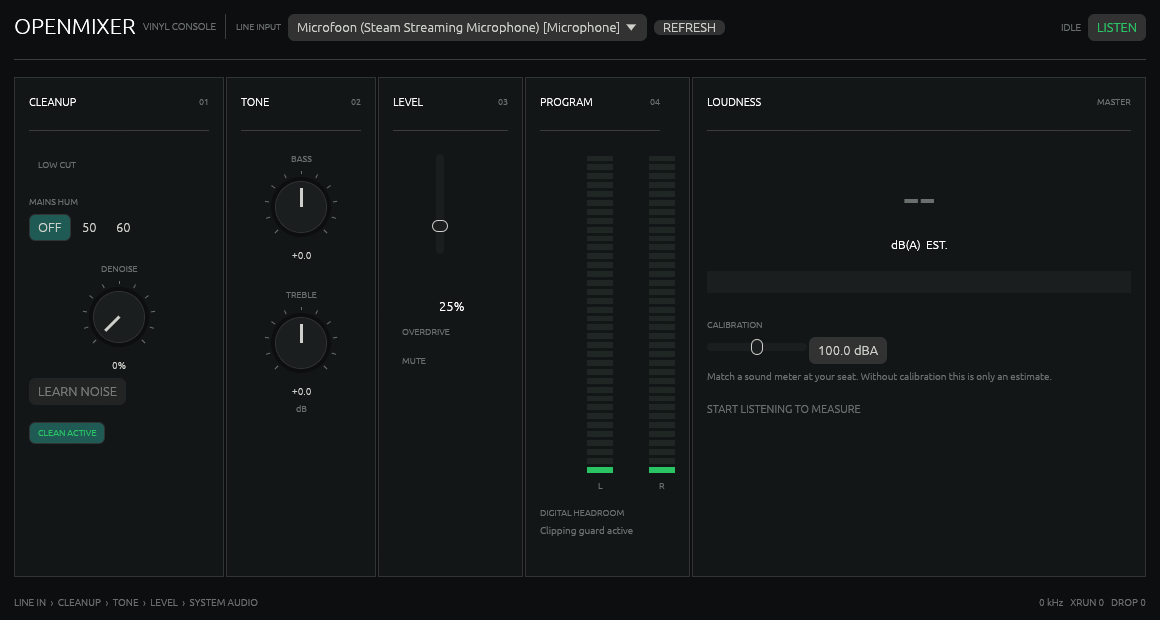
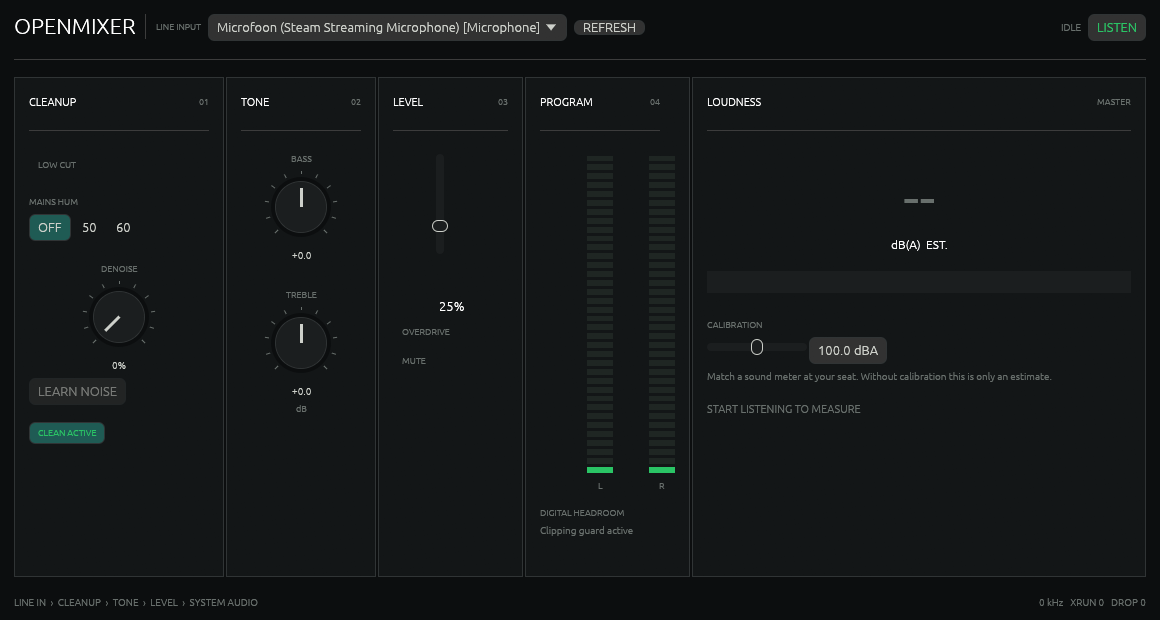
feat: remember selected line input

Changed region(s): [[0.1241, 0.0, 0.6207, 0.0919]]

diff --git a/src/main.rs b/src/main.rs
@@ -1,3 +1,5 @@
+#![cfg_attr(target_os = "windows", windows_subsystem = "windows")]
+
 use eframe::egui::{self, Align, Color32, FontId, Layout, RichText, Sense, Stroke, Vec2};
 use openmixer::{
     audio::{AudioEngine, AudioStatus, DeviceList, TelemetrySnapshot},
@@ -55,16 +57,19 @@ struct OpenMixerApp {
     state: MixerState,
     sample_rate: Option<u32>,
     notice: Option<String>,
+    saved_input: Option<String>,
 }
 
 impl OpenMixerApp {
     fn new(context: &eframe::CreationContext<'_>) -> Self {
         configure_style(&context.egui_ctx);
+        let saved_input = settings_path().as_deref().and_then(load_input);
         let mut app = Self {
             audio: AudioEngine::new(),
             state: MixerState::default(),
             sample_rate: None,
             notice: None,
+            saved_input,
         };
         app.refresh_devices();
         app
@@ -74,10 +79,8 @@ impl OpenMixerApp {
         match AudioEngine::devices() {
             Ok(devices) => {
                 self.state.devices = devices;
-                self.state.input_index = self
-                    .state
-                    .input_index
-                    .min(self.state.devices.inputs.len().saturating_sub(1));
+                self.state.input_index =
+                    preferred_input_index(&self.state.devices.inputs, self.saved_input.as_deref());
                 self.notice = None;
             }
             Err(error) => self.notice = Some(error),
@@ -91,9 +94,9 @@ impl OpenMixerApp {
                     .font(FontId::proportional(22.0))
                     .strong(),
             );
-            ui.label(RichText::new("VINYL CONSOLE").size(10.0).color(MUTED));
             ui.separator();
             small_label(ui, "LINE INPUT");
+            let previous_input = self.state.input_index;
             egui::ComboBox::from_id_salt("input-device")
                 .width(300.0)
                 .selected_text(selected(
@@ -106,6 +109,21 @@ impl OpenMixerApp {
                         ui.selectable_value(&mut self.state.input_index, index, name);
                     }
                 });
+            if self.state.input_index != previous_input
+                && let Some(name) = self
+                    .state
+                    .devices
+                    .inputs
+                    .get(self.state.input_index)
+                    .cloned()
+            {
+                self.saved_input = Some(name.clone());
+                if let Some(path) = settings_path()
+                    && let Err(error) = save_input(&path, &name)
+                {
+                    self.notice = Some(format!("Could not remember input: {error}"));
+                }
+            }
             if ui.small_button("REFRESH").clicked() {
                 self.refresh_devices();
             }
@@ -495,6 +513,32 @@ fn selected<'a>(items: &'a [String], index: usize, empty: &'static str) -> &'a s
     items.get(index).map(String::as_str).unwrap_or(empty)
 }
 
+fn preferred_input_index(inputs: &[String], saved: Option<&str>) -> usize {
+    saved
+        .and_then(|name| inputs.iter().position(|input| input == name))
+        .unwrap_or(0)
+}
+
+fn settings_path() -> Option<std::path::PathBuf> {
+    std::env::var_os("USERPROFILE")
+        .or_else(|| std::env::var_os("HOME"))
+        .map(std::path::PathBuf::from)
+        .map(|home| home.join(".openmixer").join("input"))
+}
+
+fn load_input(path: &std::path::Path) -> Option<String> {
+    std::fs::read_to_string(path)
+        .ok()
+        .filter(|name| !name.is_empty())
+}
+
+fn save_input(path: &std::path::Path, name: &str) -> std::io::Result<()> {
+    if let Some(directory) = path.parent() {
+        std::fs::create_dir_all(directory)?;
+    }
+    std::fs::write(path, name)
+}
+
 fn configure_style(context: &egui::Context) {
     let mut style = (*context.global_style()).clone();
     style.spacing.item_spacing = Vec2::new(7.0, 7.0);
@@ -566,5 +610,22 @@ mod tests {
             displayed_dba(AudioStatus::Running, -20.0, 100.0),
             Some(80.0)
         );
+    }
+
+    #[test]
+    fn saved_input_is_restored_by_device_name() {
+        let inputs = vec!["Microphone".into(), "Line In".into()];
+        assert_eq!(preferred_input_index(&inputs, Some("Line In")), 1);
+        assert_eq!(preferred_input_index(&inputs, Some("Missing")), 0);
+    }
+
+    #[test]
+    fn selected_input_round_trips_through_settings_file() {
+        let directory =
+            std::env::temp_dir().join(format!("openmixer-settings-test-{}", std::process::id()));
+        let path = directory.join("input");
+        save_input(&path, "Line In (USB Audio)").unwrap();
+        assert_eq!(load_input(&path).as_deref(), Some("Line In (USB Audio)"));
+        std::fs::remove_dir_all(directory).unwrap();
     }
 }

diff --git a/README.md b/README.md
@@ -1,12 +1,13 @@
 # OpenMixer
 
-A small native desktop mixer for listening to a line input without replacing or rerouting the rest of your system audio. OpenMixer was built for an Audio-Technica AT-LP60XBT connected to a PC: select one capture device, clean up steady electrical noise, shape the tone, and listen through the operating system's normal output.
+A small native desktop mixer for monitoring any line input without replacing or rerouting the rest of your system audio. Select a capture device, reduce steady electrical noise, shape the tone, and listen through the operating system's normal output. Typical sources include turntables with a built-in preamp, audio interfaces, cassette decks, instruments, and other line-level equipment.
 
 ![OpenMixer mixer interface](docs/openmixer.png)
 
 ## What it does
 
 - Monitors only the input you select and follows the operating system's default playback device. It never changes that default.
+- Remembers the selected input in `.openmixer/input` inside your user profile.
 - Removes 50 Hz or 60 Hz mains hum and its first harmonics.
 - Starts with cleanup off for a transparent signal. Optional two-second noise learning enables stereo-linked spectral reduction.
 - Adds a 28 Hz rumble filter and ±12 dB bass/treble controls.
@@ -16,18 +17,18 @@ A small native desktop mixer for listening to a line input without replacing or 
 
 The large readout is an **estimated dB(A)** value. A-weighting is applied in the audio engine, but a line input cannot know the gain of your amplifier, speaker sensitivity, listening distance, or the system volume after OpenMixer. Calibrate the readout against a real sound meter at your listening position before treating it as meaningful. Green is below 85 dB(A), orange is 85–89 dB(A), and red is 90 dB(A) or higher. [NIOSH uses 85 dB(A) averaged over eight hours](https://www.cdc.gov/niosh/noise/about/noise.html) as its recommended exposure limit; loudness and exposure time both matter.
 
-## Use it with the AT-LP60XBT
+## Connect a line-level source
 
-1. Put the turntable's rear pre-amplifier switch in **LINE** when connecting it to a PC line input. `PHONO` requires a separate phono preamp.
-2. Connect the turntable to a real stereo line input. Many laptop microphone jacks are mono and add gain/noise; a small USB audio interface with line inputs usually works better.
+1. Set the source to line-level output. A turntable must use its built-in preamp in **LINE** mode or connect through a separate phono preamp; a raw `PHONO` signal is not line level.
+2. Connect the source to a real stereo line input. Many laptop microphone jacks are mono and add gain/noise; a small USB audio interface with line inputs usually works better.
 3. Disable Windows/macOS/Linux "Listen to this device" or other direct monitoring for the same input. OpenMixer should be the only monitoring path.
 4. Choose your speakers or headphones as the operating system's normal default output.
 5. Run OpenMixer, choose the line input, start at the default 25% level, and press **LISTEN**.
 6. If you hear hum, select the local mains frequency: 50 Hz in most of Europe, including the Netherlands, or 60 Hz in North America. Leave it off when it does not help.
-7. For steady hiss, stop the record and press **LEARN NOISE**. Increase denoise only as far as needed; spectral reduction can soften quiet musical detail.
+7. For steady hiss, pause the source and press **LEARN NOISE**. Increase denoise only as far as needed; spectral reduction can soften quiet musical detail.
 8. To calibrate dB(A), play steady audio and adjust the calibration slider until OpenMixer matches a sound meter placed at your listening position.
 
-If the noise exists before the turntable starts, also check the cable, PC input gain, and audio interface. Try keeping the turntable and PC/interface on the same power strip, and test a different line input or shielded cable. Software can reduce steady hum and hiss, but it cannot repair clipping or remove the electrical cause of a ground loop.
+If the noise exists before playback starts, also check the cable, PC input gain, and audio interface. Try keeping connected equipment on the same power strip, and test a different line input or shielded cable. Software can reduce steady hum and hiss, but it cannot repair clipping or remove the electrical cause of a ground loop.
 
 ## Run from source
 
@@ -37,7 +38,7 @@ Install the current stable [Rust toolchain](https://rustup.rs/), then:
 cargo run --release
 ```
 
-The optimized Windows binary is created at `target/release/openmixer.exe`.
+The optimized Windows binary is created at `target/release/openmixer.exe`. Release builds open only the graphical application and do not create a terminal window.
 
 ### Windows
 
